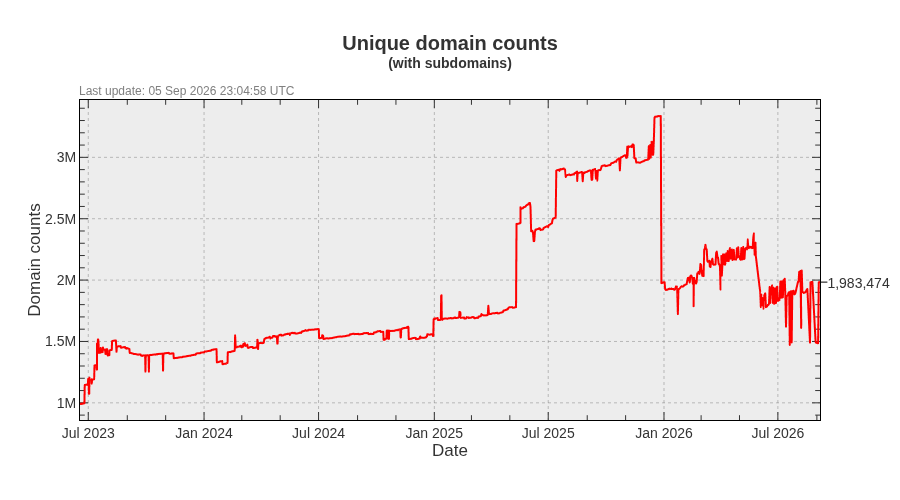
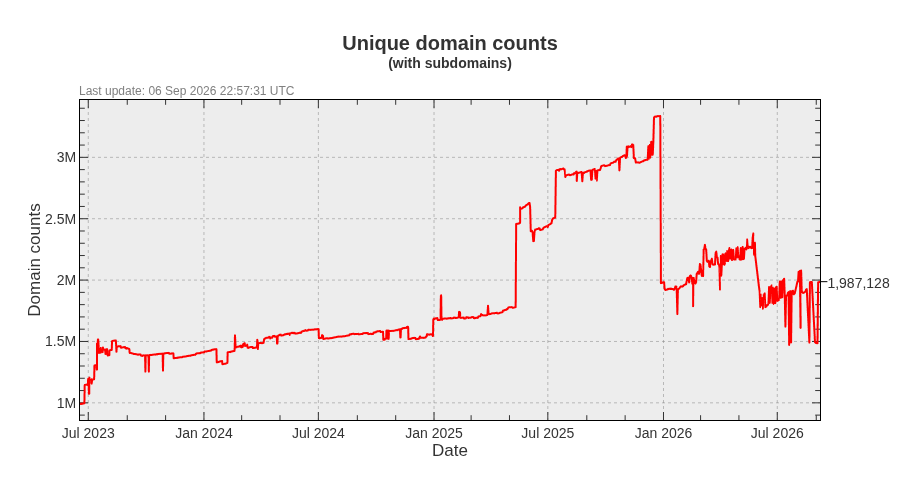
Update pages

diff --git a/README.md b/README.md
@@ -3,22 +3,22 @@ A blocklist file for blocking ads, trackers and malware domains.
 
[1 lines of base64/hex data omitted]
 
-- Unique domains: 1,983,474
-- Without subdomains: 1,203,576
-- Last update: 05 Sep 2026 23:04:58 UTC
-- Version: 2026.09.05.01
+- Unique domains: 1,987,128
+- Without subdomains: 1,206,729
+- Last update: 06 Sep 2026 22:57:31 UTC
+- Version: 2026.09.06.01
 
 
 ## Downloads:
 
 | Format             | Domain count      | Download Link |
 |------------------ | -----------------|-------------|
-| *Adblock Plus*     | 1,203,576 | [bad-hosts-abp](https://dl.cenk.app/bad-hosts/bad-hosts-abp) |
-| *Wildcard domains* | 1,203,576 | [bad-hosts-wildcard](https://dl.cenk.app/bad-hosts/bad-hosts-wildcard) |
-| *dnsmasq*          | 1,203,576 | [bad-hosts-dnsmasq](https://dl.cenk.app/bad-hosts/bad-hosts-dnsmasq) |
-| *hosts*            | 1,983,474 | [hosts](https://dl.cenk.app/bad-hosts/hosts) |
-| *hosts (ipv6)*     | 1,983,474 | [hosts-ipv6](https://dl.cenk.app/bad-hosts/hosts-ipv6) |
-| *Plain domains*    | 1,983,474 | [bad-hosts-domains](https://dl.cenk.app/bad-hosts/bad-hosts-domains) |
+| *Adblock Plus*     | 1,206,729 | [bad-hosts-abp](https://dl.cenk.app/bad-hosts/bad-hosts-abp) |
+| *Wildcard domains* | 1,206,729 | [bad-hosts-wildcard](https://dl.cenk.app/bad-hosts/bad-hosts-wildcard) |
+| *dnsmasq*          | 1,206,729 | [bad-hosts-dnsmasq](https://dl.cenk.app/bad-hosts/bad-hosts-dnsmasq) |
+| *hosts*            | 1,987,128 | [hosts](https://dl.cenk.app/bad-hosts/hosts) |
+| *hosts (ipv6)*     | 1,987,128 | [hosts-ipv6](https://dl.cenk.app/bad-hosts/hosts-ipv6) |
+| *Plain domains*    | 1,987,128 | [bad-hosts-domains](https://dl.cenk.app/bad-hosts/bad-hosts-domains) |
 
 ## Domain count history
 ### With subdomains
